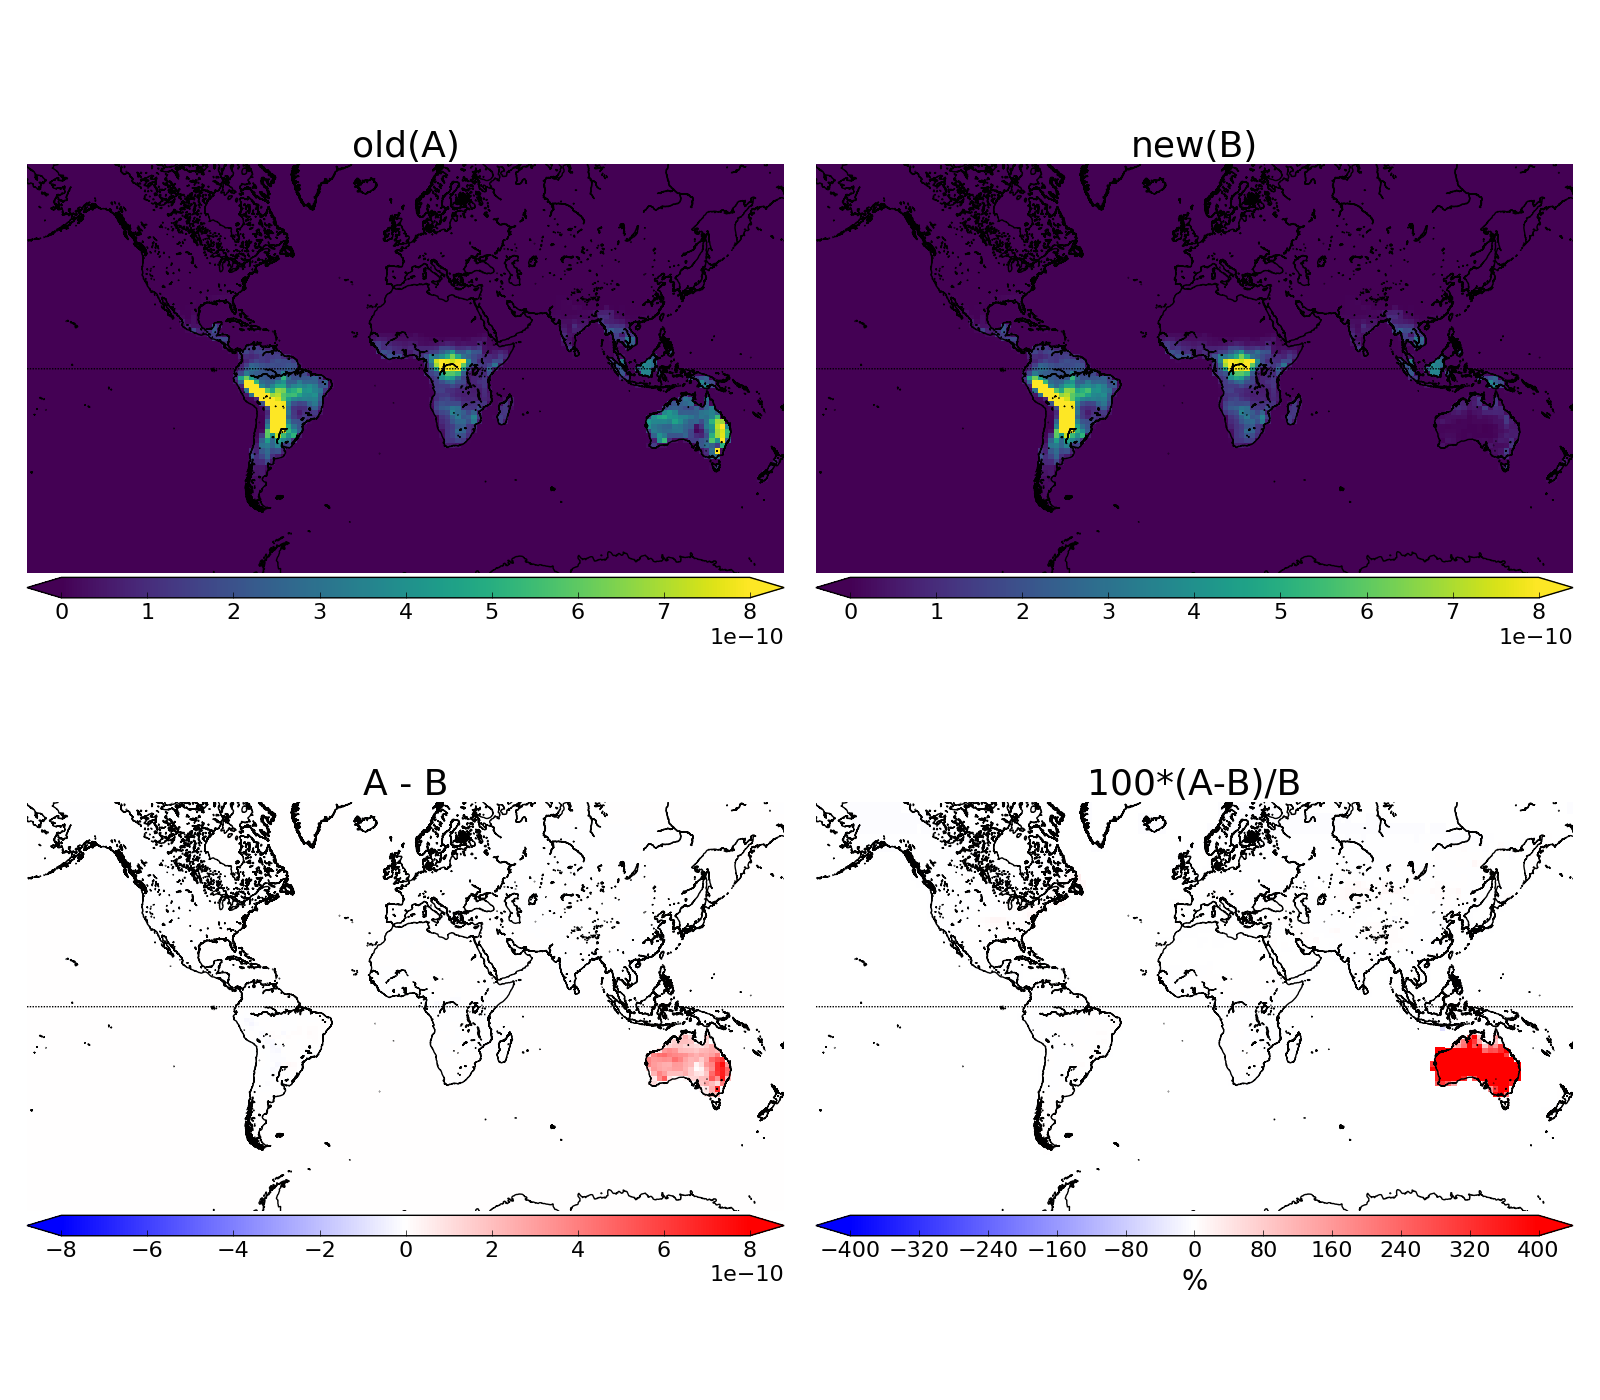
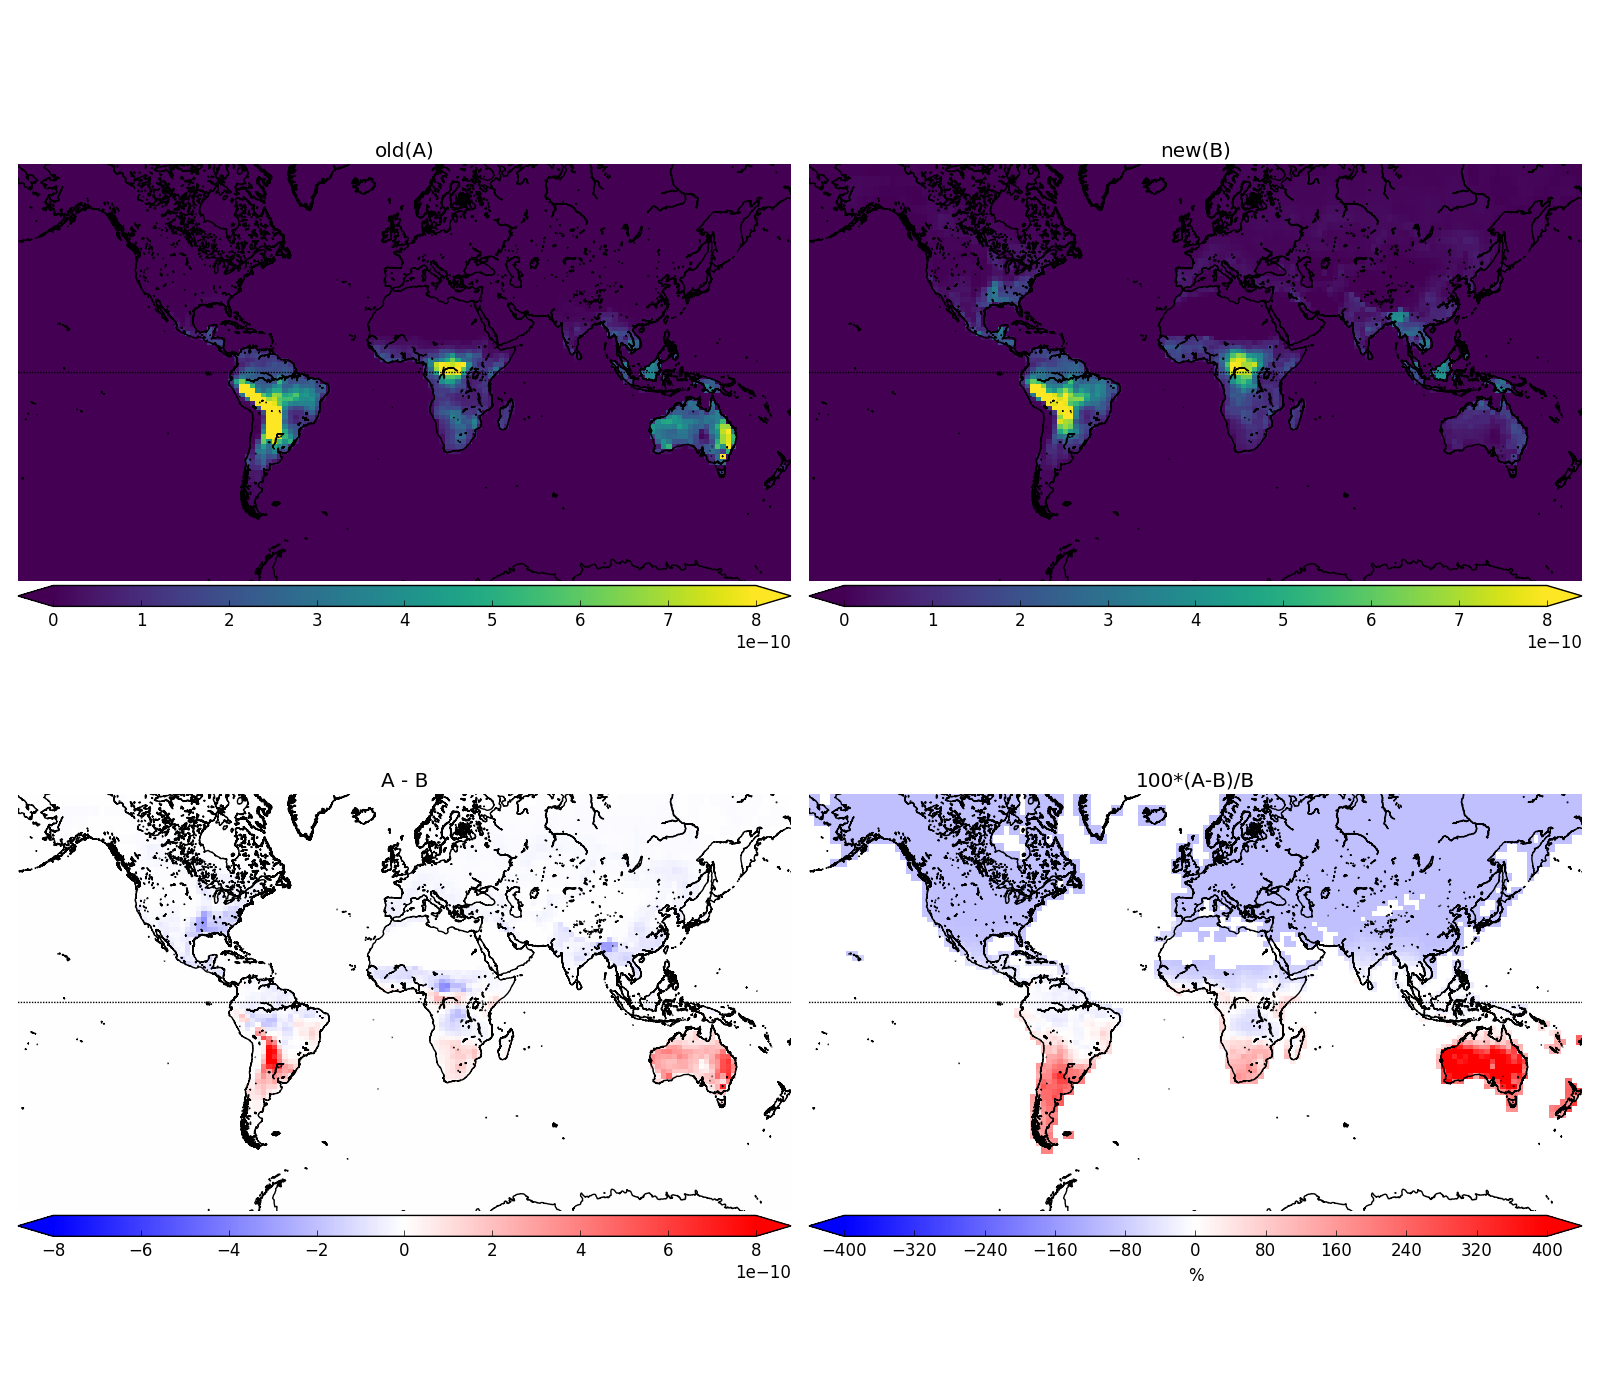
localtests now plots E_ISOP_BIOG for old and new_emiss

diff --git a/localtests.py b/localtests.py
@@ -91,6 +91,59 @@ print('new emissions tavg read 200501')
 #new_tavg.isop.shape
 #(31, 91, 144, 47)
 
+#def check_old_vs_new_emission_diags(month=datetime(2005,1,1)):
+month=jan0
+    # compare new_emissions hemco output
+d0=datetime(month.year,month.month,1)
+d1=util.last_day(d0)
+
+# old emissions are hourly
+old, oldattrs = GC_fio.read_Hemco_diags(d0,d1, new_emissions=False)
+# new emissions are daily
+new, newattrs = GC_fio.read_Hemco_diags(d0,d1, new_emissions=True)
+
+lats=old['lat']
+lons=old['lon']
+
+old_isop = np.mean(old['ISOP_BIOG'],axis=0) # hourly -> 1 month avg
+new_isop = np.mean(new['ISOP_BIOG'],axis=0) # daily -> 1 month avg
+
+pname=month.strftime('Figs/Emiss/check_old_new_emission_diags_%Y%m.png')
+pp.compare_maps([old_isop,new_isop], [lats,lats],[lons,lons],linear=True,
+                rmin=-400,rmax=400, vmin=0,vmax=0.8e-9, titles=['old','new'],
+                region=pp.__GLOBALREGION__, pname=pname)
+
+# Read whole year and do time series for both
+old, oldattrs = GC_fio.read_Hemco_diags(d0,None, new_emissions=False)
+new, newattrs = GC_fio.read_Hemco_diags(d0,None, new_emissions=True)
+old_isop = old['ISOP_BIOG']
+new_isop = new['ISOP_BIOG']
+old_dates= old['dates']
+new_dates= new['dates']
+
+# pull out regions and compare time series
+r_olds, r_lats, r_lons = util.pull_out_subregions(old_isop,
+                                                 lats, lons,
+                                                 subregions=GMAO.__subregions__)
+r_news, r_lats, r_lons = util.pull_out_subregions(new_isop,
+                                                 lats, lons,
+                                                 subregions=GMAO.__subregions__)
+f,axes = plt.subplots(6, figsize=(14,16), sharex=True, sharey=True)
+for i, [label, color] in enumerate(zip(GMAO.__subregions_labels__, GMAO.__subregions_colors__)):
+    # set current axis
+    plt.sca(axes[i])
+
+    # plot time series for each subregion
+    r_old = np.nanmean(r_olds[i],axis=(1,2)) # hourly regional avg
+    r_new = np.nanmean(r_news[i],axis=(1,2)) # daily
+    pp.plot_time_series(old_dates,r_old, linestyle='--', color=color)
+    pp.plot_time_series(new_dates,r_new,title=label, linestyle='-', color=color)
+
+plt.ylabel('kgC m$^{-2}$ s$^{-1}$')
+pname = 'Figs/new_emiss/E_isop_series_2005.png'
+plt.savefig(pname)
+print('SAVED FIGURE ',pname)
+plt.close(f)
 ###########
 ### Record and time STUJFFS
 ###########

diff --git a/utilities/GC_fio.py b/utilities/GC_fio.py
@@ -189,15 +189,19 @@ def read_Hemco_diags_hourly(d0,d1=None,month=False,new_emissions=False):
 
     return data,attrs
 
-def read_Hemco_diags(d0,d1=None, month=False,): #new_emissions=False):
+def read_Hemco_diags(d0,d1=None, month=False, new_emissions=False):
     '''
         Read Hemco diag output, one day or month at a time
     '''
+    if d1 is None:
+        d1 = datetime(d0.year,12,31)
     if month:
         d1 = util.last_day(d0)
 
     # maybe want more than 1 year of data
     fpre='Data/GC_Output/geos5_2x25_tropchem_biogenic/Hemco_diags/E_isop_'
+    if new_emissions:
+        fpre='Data/GC_Output/new_emissions/diagnostics/emiss_a_'
     ylist=util.list_years(d0,d1)
     # for each day: glob matching files to list
     files=[]
@@ -220,6 +224,7 @@ def read_Hemco_diags(d0,d1=None, month=False,): #new_emissions=False):
     dates = util.datetimes_from_np_datetime64(data['time'])
     # subtract an hour so that index represents following hour rather than prior hour
     dates = np.squeeze([d-timedelta(hours=1) for d in dates])
+
     di = util.date_index(d0, dates, d1)
     #print(di)
 

diff --git a/utilities/utilities.py b/utilities/utilities.py
@@ -609,6 +609,31 @@ def ppbv_to_molecs_per_cm2(ppbv, pedges):
             out[:,x,y] = t*ppbv[:,x,y]
     return out
 
+def pull_out_subregions(data, lats, lons, subregions=GMAO.__subregions__):
+    ''' pull out subregions from data: returns list of data subsets, list of lats, list of lons '''
+
+    has_time_dim = len(np.shape(data)) == 3
+    outdata=[]
+    outlats=[]
+    outlons=[]
+
+    for region in subregions:
+
+        # pull out region:
+        lati,loni = lat_lon_range(lats,lons,region)
+
+        if has_time_dim:
+            sub=data[:,lati,:]
+            sub=sub[:,:,loni]
+        else:
+            sub=data[lati,:]
+            sub=sub[:,loni]
+
+        outdata.append(np.copy(sub))
+        outlats.append(np.copy(lats[lati]))
+        outlons.append(np.copy(lons[loni]))
+    return outdata, outlats, outlons
+
 def regrid_to_higher(data,lats,lons,newlats,newlons,interp='nearest',fill_value=np.NaN):
     '''
         regrid data[lats,lons] to data[newlats,newlnos] using interp method
